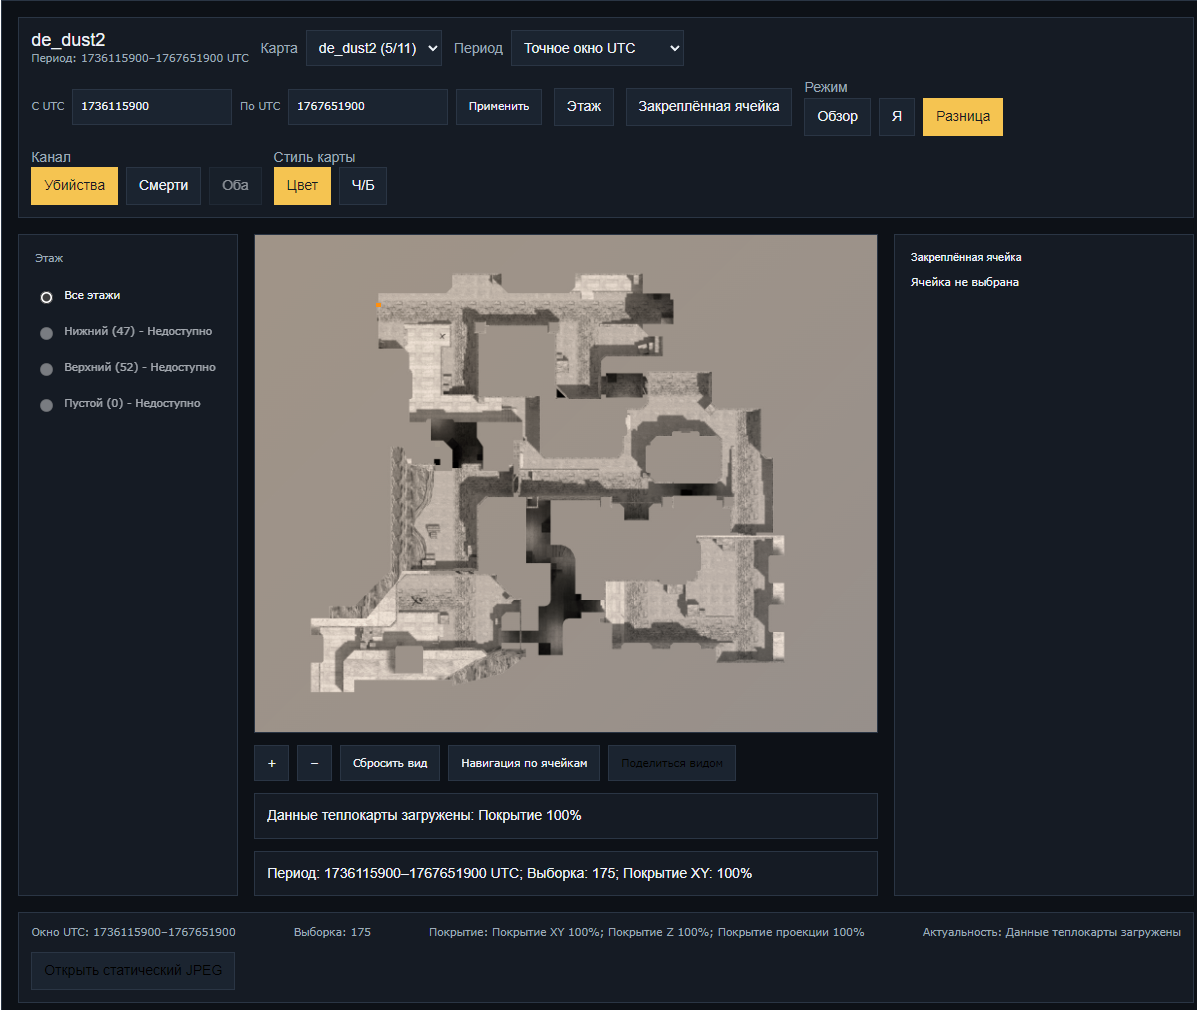
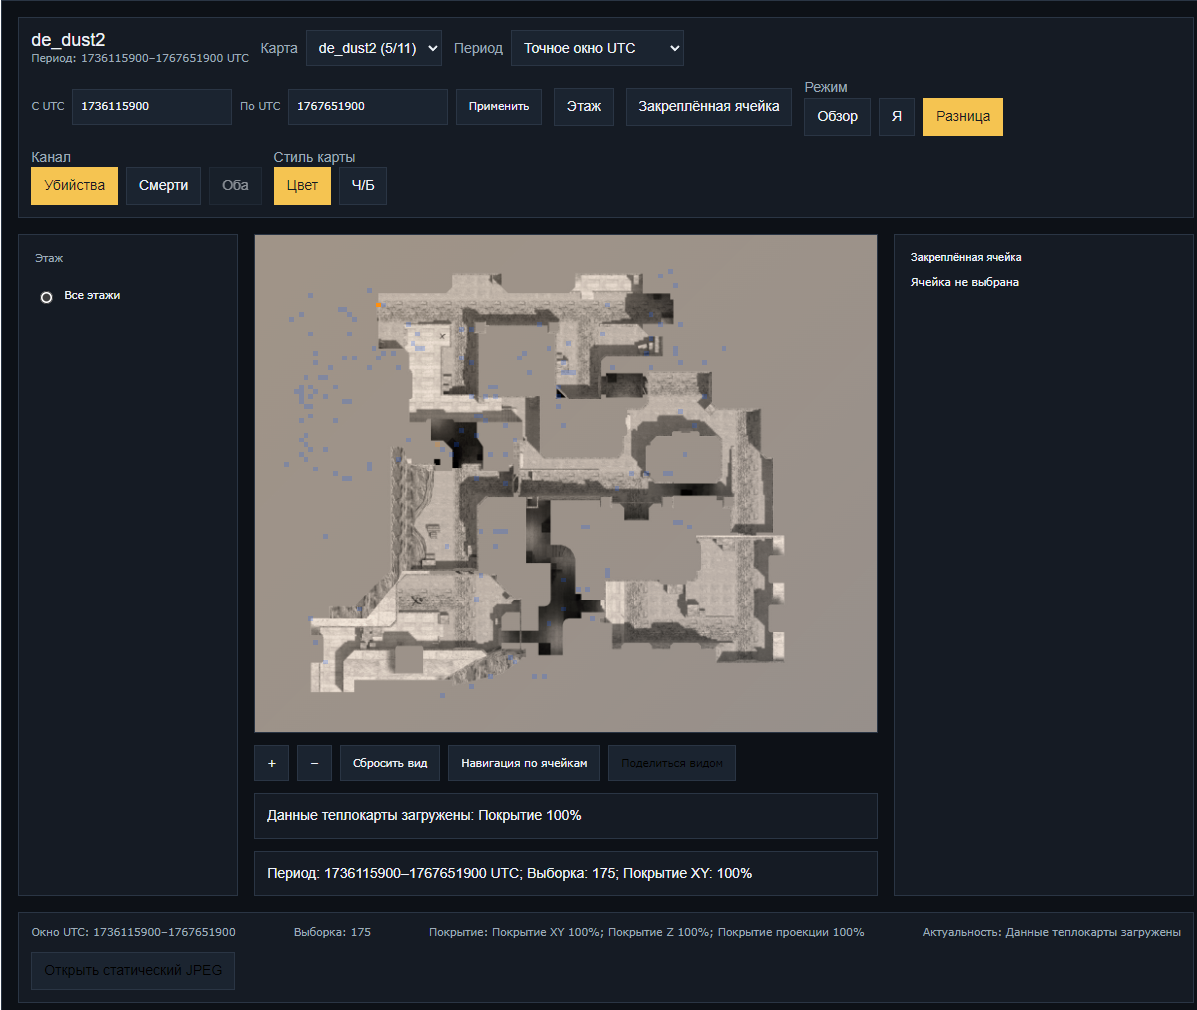
docs(heatmap): record visibility acceptance

diff --git a/docs/audits/modern-heatmap-explorer/runtime-acceptance.md b/docs/audits/modern-heatmap-explorer/runtime-acceptance.md
@@ -1,32 +1,72 @@
 # Modern Heatmap Explorer runtime acceptance
 
-Status on 2026-09-01: `SOURCE-READY`, `RUNTIME-ACCEPTED`, and
-`RELEASE-READY` as a local release candidate. Nothing was pushed, deployed, or
-published by this acceptance run.
+Status on 2026-09-02: `SOURCE-READY`, locally `RUNTIME-ACCEPTED`, and
+`RELEASE-READY` only as a local release candidate. Nothing was pushed,
+deployed, published, or accepted for production release by this run.
 
-The accepted product runtime is commit
-`cc116620422182d20ebb29df9c3518693a551da7`. Commit `3dc6330` only makes the
-coordinate receipt portable to the Windows PowerShell available on this host;
-it does not change runtime behavior. The sanitized machine-readable summary is
-[`evidence/acceptance-2026-09-01.json`](evidence/acceptance-2026-09-01.json).
+The accepted visibility-corrected implementation is exact commit
+`44f3af97db46107f3ab9b595b3c32b3e5c2c7986`. The previously accepted DB/API,
+coordinate, migration, admin, cache and performance evidence remains applicable
+because this correction changes only WebGL presentation and its tests. The
+sanitized machine-readable summary is
+[`evidence/acceptance-2026-09-02.json`](evidence/acceptance-2026-09-02.json);
+the 2026-09-01 JSON remains a historical pre-correction receipt.
 
 ## Acceptance result
 
 | Gate | Result | Current evidence |
 | --- | --- | --- |
-| Source | pass | 302 product tests, 91 replay tests, 13 route tests, 5 coordinate-runner tests, compileall, PHP smoke/lint, JavaScript check/smoke, and diff check |
+| Source | pass | 302 product tests with explicit local `PYTHONPATH`, 91 replay tests, 18 focused route/coordinate-script tests, compileall, PHP heatmap/i18n smoke, JavaScript syntax/smoke including the sparse normalization regression, and diff check |
 | Persisted coordinates | pass | Disposable `bench_ephemeral` runner asserted five distinct/consumed/cleared coordinate cases and cleaned itself |
 | Migration | pass | Fresh install and HTTP updater 81→82 retained MyISAM, data fingerprint, and exact `mapEventTime(map,eventTime)` index; second update was idempotent |
 | Performance | pass | cold p95 55.5241 ms, warm p95 10.3528 ms, inspect p95 13.6879 ms, 4,009-byte gzip, 301 bins, 65/65 metrics |
-| Public browser | pass | EN/RU map and player surfaces, Color/Mono, custom period, Difference, inspector aggregates, floor states, keyboard, touch/mobile, 200% reflow, reduced motion, JS/WebGL fallbacks, and legacy rollback |
+| Visual legibility | pass | Old shader failed with singleton/peak alpha `0.009259/0.138889` and zero colored pixels above alpha 0.20; corrected Color and Mono each have 35,766 qualifying colored pixels and Difference has 3,740 against required 189 |
+| Public browser | pass | EN/RU map and player surfaces, visibly obvious Color/Mono/Difference data, custom period, inspector aggregates, floor states, keyboard, touch/mobile, 200% reflow, reduced motion, JS/WebGL fallbacks, and legacy rollback |
 | Admin browser | pass | authenticated EN/RU upload/save/readback plus access, CSRF, stale-session, file-type, size, floor, and generate-over-HTTP negative cases |
 | Map identity | pass | A and B SHA-256 URLs differed; stale A returned 409/no-store; current B returned 200/immutable with matching ETag |
 | Restore | exact | mode 0, original config and assets, `counter_hits=293725`, zero temporary users/fixtures/sessions, no mounts, no custom overview |
 
+## Sparse-grid visibility correction
+
+The accepted `cstrike/de_dust2` scene contains 175 source events and 301
+occupied bins in a 128×103 grid; the raw maximum cell value is 12. The old
+fragment path averaged a 3×3 neighborhood and divided by the original global
+maximum. An ordinary isolated bin therefore became `1/108 = 0.009259` alpha,
+the strongest convolved region became only `15/108 = 0.138889`, and the live
+frame maxed at `35/255 = 0.137255`. It produced zero qualifying colored pixels
+above alpha 0.20 and failed the retained RED gate.
+
+The corrected path normalizes after convolution and applies the fixed square-
+root transfer. An ordinary singleton is `sqrt(1/15) = 0.258199`; the peak is
+`1.0`. Live Color and Mono each contain 35,766 qualifying colored pixels with
+max alpha 1.0 and identical raw WebGL hash prefix `f06b0da2`; only the styled
+background differs, and both composite-contrast checks pass. Difference has
+161 bins, 45 warm plus 3,695 cool qualifying pixels (3,740 total versus the
+required 189), alpha floor 0.22, max alpha 1.0, and passing contrast. Independent
+visual judgment found the hotspots obvious without zoom.
+
+The exact-HEAD objective receipt is
+`.superpowers/sdd/2026-09-02-modern-heatmap-visibility/`
+`fixed-runtime-visual-gate-44f3af9.json`; it reports PASS at full commit
+`44f3af97db46107f3ab9b595b3c32b3e5c2c7986`. The retained old-runtime RED
+receipt proves the same gate rejects the legacy rendering.
+
+Canonical before/after evidence:
+
+- [Color before](screenshots/before-normalization-map-overview-en.png) / [Color after](screenshots/map-overview-en.png)
+- [Mono before](screenshots/before-normalization-map-overview-mono-en.png) / [Mono after](screenshots/map-overview-mono-en.png)
+- [Difference before](screenshots/before-normalization-player-difference-ru.png) / [Difference after](screenshots/player-difference-ru.png)
+- [Mobile inspector](screenshots/mobile-inspector-ru.png) / [static JPEG fallback](screenshots/fallback-jpeg-en.png)
+
 ## Browser proof
 
-The final browser rows used Chromium against `http://127.0.0.1:8281` and the
-rebuilt exact product image.
+The broad browser rows used Chromium against `http://127.0.0.1:8281`. Receipt
+`task3-browser-20260902T010842Z.json` is PASS for keyboard Color/Mono
+reversibility without request or URL changes, mobile, 200% zoom/reflow,
+reduced motion, legacy mobile, and WebGL fallback. Its embedded repository HEAD
+is the pre-commit `59b0786` because the capture ran immediately before commit;
+the candidate code content is identical to reviewed `44f3af9`, and the separate
+exact-HEAD objective receipt above removes that provenance ambiguity.
 
 - Color is the default map-only grade. Mono is reversible and changes neither
   scene request nor URL. WebGL-unavailable fallback remains unfiltered.
@@ -95,7 +135,23 @@ the v1/JPEG compatibility contract.
 
 ## Rollout and rollback
 
-`HeatmapExplorerBeta` remains at `0` after acceptance:
+`HeatmapExplorerBeta` remains at `0` after acceptance. The first generic helper
+reported only a `floors_json` comparison mismatch caused by double escaping in
+its temporary expected value; that was a helper assertion defect, not a product
+restore failure. Final independent manual readback then matched exactly:
+
+- mode `0`, counter `293725`;
+- projection `384/1120/1.26`, flips `0/1`, rotate `0`, days `30`, empty floors,
+  and crops `0/0/0/0`;
+- zero temporary users, fixture rows, and sessions; AUTO_INCREMENT users `0`
+  and frags `6937`;
+- asset/JPEG/thumb SHA-256
[3 lines of base64/hex data omitted]
+- no mounts.
+
+Mode meanings remain:
 
 - `0`: legacy v1/JPEG only; direct v2 disabled;
 - `1`: legacy by default, explicit `heatmap_explorer=1` opt-in;
@@ -103,8 +159,9 @@ the v1/JPEG compatibility contract.
 
 Promote `0 → 1 internal → 1 public beta → 2 default`. Roll back immediately
 to `0` for elevated errors, SLA breach, biased/truncated scenes, or coverage
-regression. This document establishes local release readiness, not production
-deployment acceptance.
+regression. This document establishes source readiness, acceptance on the
+tested local runtime, and local-candidate release readiness. It is not
+production deployment or production release acceptance.
 
 ## Raw evidence boundary
 
@@ -122,3 +179,12 @@ read-only references are:
 - `2026-08-31-modern-heatmap-explorer/task-12-evidence/task12-admin-matrix-current-20260901T2251Z.json`;
 - final exact restore
   `2026-08-31-modern-heatmap-explorer/task-12-evidence/task12-final-gap-restore-20260901T225611Z.json`.
+- visibility RED baseline
+  `2026-09-02-modern-heatmap-visibility/old-runtime-visual-gate.json`;
+- exact reviewed-HEAD visibility PASS
+  `2026-09-02-modern-heatmap-visibility/fixed-runtime-visual-gate-44f3af9.json`;
+- broad corrected browser matrix
+  `2026-09-01-heatmap-background-grading/task3-browser-20260902T010842Z.json`.
+
+An independent final review of the visibility correction and its evidence
+returned `ship` with zero findings.

diff --git a/docs/test-plan.md b/docs/test-plan.md
@@ -290,13 +290,20 @@ Use the already populated DB for visual/projection iteration first.
 
 ### Modern Heatmap Explorer
 
-#### Final runtime acceptance (`cc11662` product runtime)
+#### Final local runtime acceptance (`44f3af9` visibility-corrected runtime)
 
 - Required browser rows: reversible Color/Mono without request or URL change;
   map/player/custom/Difference/inspector/floor flows; keyboard pin/pan/reset/
   unpin; reduced motion; JS-off and WebGL failure fallbacks; static JPEG;
   legacy rollback; true 390px mobile and 720px @2x reflow. Measure only visible,
   enabled Explorer controls for the 44×44 target gate.
+- Required objective visual rows on the accepted sparse `de_dust2` scene:
+  175 source events, 301 occupied bins, grid 128×103, raw max 12; Color and
+  Mono must each exceed the configured colored-pixel and composite-contrast
+  thresholds while retaining identical raw WebGL output; Difference must pass
+  independent warm/cool pixel and contrast thresholds. The gate must fail the
+  old singleton/peak alpha `0.009259/0.138889` implementation, not merely prove
+  that `drawArrays()` ran.
 - Required admin rows: authenticated EN/RU preview/upload/save/readback, two
   stale sessions, non-admin denial, CSRF rejection, invalid floor/token/type/
   dimension/body size and HTTP generation denial.
@@ -314,7 +321,11 @@ Use the already populated DB for visual/projection iteration first.
   `python-web:latest` Docker image with the same commands.
 - JavaScript syntax/smoke: `node --check web/includes/js/heatmap.js`,
   `node --check web/includes/js/heatmap-explorer.js`, and
-  `node scripts/heatmap_js_smoke.js`.
+  `node scripts/heatmap_js_smoke.js`. The smoke pins normalization after the
+  3×3 convolution and the square-root sparse-density transfer.
+- Objective runtime visual gate: `node scripts/heatmap_visual_gate.js` against
+  the accepted populated local browser runtime. Retain the legacy RED receipt,
+  an exact-HEAD PASS receipt, and canonical Color/Mono/Difference screenshots.
 - Route smoke: `python -m pytest
   scripts/replay_baseline/tests/test_web_route_smoke.py -q`. Migration checks
   include the focused source assertions and `php -l` for
@@ -325,15 +336,22 @@ Use the already populated DB for visual/projection iteration first.
   normal source test.
 - Current runtime truth is
   `docs/audits/modern-heatmap-explorer/runtime-acceptance.md`. The 2026-09-01
-  final pass closes source, coordinate, MyISAM, performance, public browser,
-  admin, map-identity and exact-restore gates. The local candidate is release
-  ready; deployment acceptance still requires staged promotion and monitoring.
+  pass remains historical evidence for coordinate, MyISAM, performance, admin,
+  map identity and compatibility. The 2026-09-02 pass additionally closes the
+  sparse-layer source regression, objective Color/Mono/Difference visibility,
+  exact-HEAD visual receipt, browser screenshots, independent `ship` review and
+  exact mode-0 restoration. The candidate is release-ready locally only;
+  deployment and production release acceptance still require staged promotion
+  and monitoring.
 
-**Source gate:** static contract, Python, PHP, JavaScript, route, migration,
-and diff checks pass without Docker DB execution. **Runtime acceptance:** a
-fresh disposable coordinate-runner receipt proves persisted tuples. **Release
-acceptance:** adds the approved live DB/browser/regeneration and release
-evidence; source or runtime results alone do not establish it.
+**Source gate:** static contract, sparse normalization regression, Python, PHP,
+JavaScript, route, migration, and diff checks pass without relying on live
+browser appearance. **Local runtime acceptance:** fresh disposable coordinate
+readback plus populated browser, objective visual, admin, fallback and rollback
+evidence pass on the tested stack. **Local release readiness:** additionally
+requires performance/operations, exact restoration and independent final
+review. None of these labels establishes deployment or production release
+acceptance.
 
 ### Frontend / i18n
 

diff --git a/docs/status.md b/docs/status.md
@@ -2,21 +2,29 @@
 
 ## Snapshot
 
-- Last updated: `2026-09-01`
-- Modern Heatmap Explorer is `SOURCE-READY`, `RUNTIME-ACCEPTED`, and
-  `RELEASE-READY` as a local candidate at product runtime `cc11662` plus the
-  PowerShell-compatible coordinate runner `3dc6330`. The final pass includes
-  302 product tests, 91 replay tests, 13 route tests, PHP/JS gates, a passing
-  disposable five-case coordinate receipt, fresh-install and populated MyISAM
-  updater acceptance, 65/65 performance metrics, authenticated EN/RU admin
-  acceptance, and live browser proof for map/player/mobile/floor/keyboard/
-  fallback/rollback paths. Color/Mono is map-only, reversible, and causes no
-  request or URL change. True mobile is `clientWidth=390`, DPR 3, one column,
-  no content overflow, and 19 enabled targets at least 44×44; the 200% reflow
-  proxy is `720px @ 2x` without page scaling. The final restore returned exact
-  mode `0`, config/assets/counter/users/fixtures/auto-increments/sessions and
-  mounts. See `docs/audits/modern-heatmap-explorer/runtime-acceptance.md` and
-  its sanitized JSON evidence. No push, deployment, or publication occurred.
+- Last updated: `2026-09-02`
+- Modern Heatmap Explorer is `SOURCE-READY`, locally `RUNTIME-ACCEPTED`, and
+  `RELEASE-READY` only as a local candidate at exact implementation commit
+  `44f3af97db46107f3ab9b595b3c32b3e5c2c7986`. The visibility correction closes
+  the previously missed sparse-grid normalization defect: the accepted
+  `de_dust2` scene has 175 source events, 301 occupied bins in a 128×103 grid,
+  and raw maximum 12. The old renderer produced singleton/peak alpha only
+  `0.009259/0.138889` and zero colored pixels above alpha 0.20; the corrected
+  transfer produces ordinary singleton intensity `0.258199`, peak `1.0`, and
+  35,766 qualifying colored pixels in both Color and Mono. Difference has 161
+  bins and 3,740 qualifying warm/cool pixels against a required 189. Heatmap
+  hotspots are obvious without zoom; Color/Mono changes only the background,
+  with the same raw WebGL hash. Source gates passed 302 product tests with an
+  explicit local `PYTHONPATH`, 91 replay tests, 18 focused route/coordinate
+  tests, compileall, Node syntax/smoke, and PHP heatmap/i18n smoke. The broad
+  browser matrix, objective Color/Mono/Difference pixel gates, and independent
+  reviewer all pass (`ship`, zero findings). Final manual readback restored
+  exact mode `0`, original config/assets/counter/users/fixtures/
+  auto-increments/sessions and no mounts. See
+  `docs/audits/modern-heatmap-explorer/runtime-acceptance.md` and
+  `docs/audits/modern-heatmap-explorer/evidence/acceptance-2026-09-02.json`.
+  No push, deployment, publication, or
+  production release acceptance occurred.
 - Counter-Strike/GoldSrc color overview BMP/TXT files were researched locally,
   but no Valve/Steam asset was copied or shipped. The product uses repository
   images with Color/Mono grading. Optional operator-side GoldSrc import remains
@@ -585,7 +593,8 @@ Current parity state:
 
 - Docker API access can still block single-log or narrow replay verification
   even when the local unit slice is already green.
-- Modern Heatmap Explorer is locally release-ready, but production promotion
+- Modern Heatmap Explorer is release-ready only as the accepted local
+  `44f3af9` candidate; production promotion
   still requires the documented mode-0 deployment, migration readback, staged
   mode-1 observation, reverse-proxy inspect rate limit, and rollback monitoring.
 - Some Python test commands still require explicit `PYTHONPATH` setup because

diff --git a/docs/plans.md b/docs/plans.md
@@ -80,14 +80,17 @@ Historical autonomy follow-up context:
   web, static JPEG compatibility fallback, player-scoped kill/death widgets,
   and per-map projection calibration from overview seeds plus DB-first manual
   diagnostics.
-- Modern Heatmap Explorer implementation and all 12 planned gates are complete
-  for the local release candidate. Source, disposable coordinates, MyISAM
-  install/update/performance, public EN/RU browser, authenticated admin,
-  accessibility/fallback/rollback, cache identity, and exact restoration are
-  accepted. Use `docs/audits/modern-heatmap-explorer/runtime-acceptance.md` as
-  the current truth. Remaining work is operational promotion through mode 0,
-  migration readback, mode 1 observation and production monitoring; it is not
-  an implementation correction pass.
+- Modern Heatmap Explorer implementation and all 12 planned gates, plus the
+  2026-09-02 sparse-layer visibility correction, are complete for exact commit
+  `44f3af97db46107f3ab9b595b3c32b3e5c2c7986`. Source, disposable coordinates,
+  MyISAM install/update/performance, public EN/RU browser, objective
+  Color/Mono/Difference pixel visibility, authenticated admin, accessibility/
+  fallback/rollback, cache identity, independent review, and exact restoration
+  are accepted on the tested local stack. Use
+  `docs/audits/modern-heatmap-explorer/runtime-acceptance.md` as the current
+  truth. Remaining work is operational promotion through mode 0, migration
+  readback, mode 1 observation and production monitoring; no production
+  deployment, publication, or release acceptance is claimed.
 - Keep GoldSrc import and Steam/Valve provenance outside this release. Local
   source research validated the overview coordinate model, but no Valve asset
   is shipped. The accepted product path uses repository maps with reversible

diff --git a/docs/release-readiness.md b/docs/release-readiness.md
@@ -146,12 +146,16 @@ release-readiness artifacts when present.
 
 ## Modern Heatmap Explorer rollout notes
 
-Current status on 2026-09-01: local candidate `RELEASE-READY`. Source,
-coordinate persistence, MyISAM install/update/performance, public EN/RU
-browser, authenticated admin, cache identity and exact restoration are
-accepted at product runtime `cc11662`; see
+Current status on 2026-09-02: exact implementation commit
+`44f3af97db46107f3ab9b595b3c32b3e5c2c7986` is `SOURCE-READY`, locally
+`RUNTIME-ACCEPTED`, and `RELEASE-READY` only as a local candidate. Coordinate
+persistence, MyISAM install/update/performance, authenticated admin, cache
+identity and compatibility evidence remain accepted from the unchanged
+DB/API boundary. Fresh source regression, EN/RU browser, objective
+Color/Mono/Difference pixel visibility, exact restoration and independent
+`ship` review close the sparse-layer correction; see
 `docs/audits/modern-heatmap-explorer/runtime-acceptance.md`. This is not a
-production deployment or publication record.
+production deployment, publication, or production release acceptance record.
 
 No Steam/Valve asset is shipped. Local GoldSrc research validated overview
 coordinates, while the release uses repository images with reversible map-only
@@ -232,7 +236,8 @@ rtk python -m hlstats_py.heatmaps --game <validated-game> --map <validated-map> 
   scope ad hoc
 - shipped telemetry claim: the cstrike grammar is verified; other mods may use
   only the coordinates actually present in their logs
-- local acceptance gates are closed; production promotion must still follow
+- local source/runtime/visual/release-candidate gates are closed at `44f3af9`;
+  production promotion must still follow
   mode `0` deploy/readback, mode `1` internal observation, public beta, and the
   rollback thresholds above
 

diff --git a/docs/README.md b/docs/README.md
@@ -74,11 +74,15 @@ Read them only when you need historical rationale.
 
 - `docs/audits/legacy-python-parity-20260423/`
 - `docs/audits/modern-heatmap-explorer/runtime-acceptance.md` — current local
-  release-candidate gates, rollout boundary, and raw-receipt index.
+  release-candidate source/browser/visual gates, rollout boundary, screenshots,
+  exact restore, and raw-receipt index.
 - `docs/audits/modern-heatmap-explorer/performance.md` — index decision,
   MyISAM updater/performance evidence, and historical contour non-claims.
+- `docs/audits/modern-heatmap-explorer/evidence/acceptance-2026-09-02.json` —
+  current sanitized visibility-correction acceptance summary at exact commit
+  `44f3af9`.
 - `docs/audits/modern-heatmap-explorer/evidence/acceptance-2026-09-01.json` —
-  sanitized machine-readable final acceptance summary.
+  historical pre-visibility-correction acceptance summary.
 
 Keep detailed replay transcripts, compare outputs, and retained parity evidence
 there rather than expanding `status.md`.
